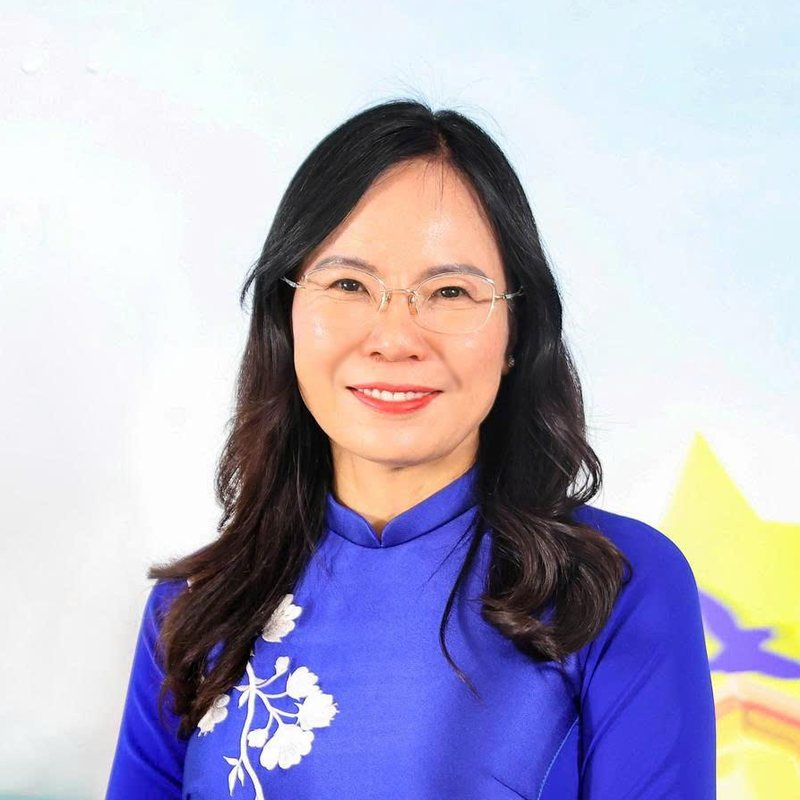
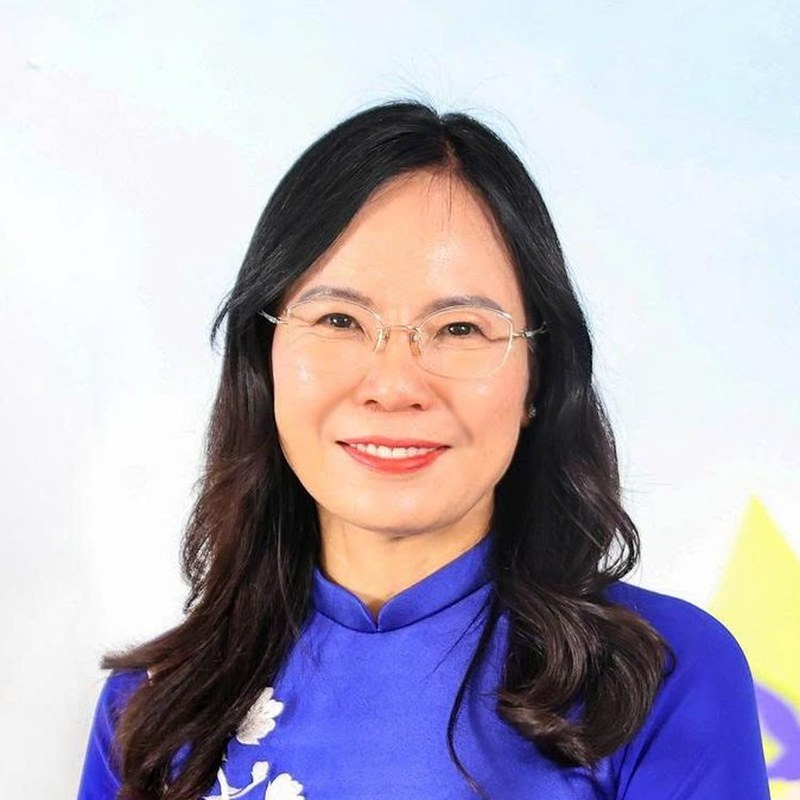
Update speakers

diff --git a/src/data/speakers.ts b/src/data/speakers.ts
@@ -18,6 +18,8 @@ export interface Speaker {
   img: boolean
   org: string
   draft: string[]
+  /** Horizontal focus of the photo in the modal's tall frame, in % (default 50 = centre). */
+  focusX?: number
   vi: SpeakerText
   en: SpeakerText
 }
@@ -30,7 +32,7 @@ export const SHOW_AUTO_TAG = false
 
 export const SP_GROUPS: Record<Locale, string[]> = { vi: ['Phiên toàn thể', 'Phiên chuyên đề', 'Chuyên đề 1 – Đổi mới sáng tạo', 'Chuyên đề 2 – Tài chính xanh'], en: ['Plenary session', 'Thematic session', 'Theme 1 – Innovation', 'Theme 2 – Green finance'] };
 export const SPEAKERS: Speaker[] = [
-  {"id":"ho-sy-hung","g":0,"img":true,"org":"VCCI","draft":[],"vi":{"name":"Ông Hồ Sỹ Hùng","role":"Chủ tịch Liên đoàn Thương mại và Công nghiệp Việt Nam (VCCI)","bio":[]},"en":{"name":"Mr. Ho Sy Hung","role":"Chairman of the Vietnam Chamber of Commerce and Industry (VCCI)","bio":[]}},
+  {"id":"ho-sy-hung","g":0,"img":true,"org":"VCCI","draft":[],"focusX":30,"vi":{"name":"Ông Hồ Sỹ Hùng","role":"Chủ tịch Liên đoàn Thương mại và Công nghiệp Việt Nam (VCCI)","bio":[]},"en":{"name":"Mr. Ho Sy Hung","role":"Chairman of the Vietnam Chamber of Commerce and Industry (VCCI)","bio":[]}},
   {"id":"nguyen-xuan-thang","g":0,"img":true,"org":"Hội đồng Lý luận Trung ương","draft":[],"vi":{"name":"GS. TS. Nguyễn Xuân Thắng","role":"Ủy viên Bộ Chính trị khóa XIII, Chủ tịch Hội đồng Lý luận Trung ương","bio":[]},"en":{"name":"Prof. Dr. Nguyen Xuan Thang","role":"Member of the 13th Politburo, Chairman of the Central Theoretical Council","bio":[]}},
   {"id":"bui-minh-giap","g":0,"img":true,"org":"ADB","draft":[],"vi":{"name":"Ông Bùi Minh Giáp","role":"Chuyên gia Kinh tế trưởng, Ngân hàng Phát triển Châu Á (ADB)","bio":["Ông Bùi Minh Giáp là Chuyên gia Kinh tế trưởng của Ngân hàng Phát triển Châu Á (ADB) tại Việt Nam. Ông phụ trách công tác theo dõi, phân tích và dự báo kinh tế vĩ mô của Việt Nam, đồng thời tham gia tư vấn chính sách trong các lĩnh vực quản lý khu vực công, phát triển khu vực tài chính, hoạch định chiến lược, xác định ưu tiên và xây dựng lộ trình đầu tư.","Với 28 năm kinh nghiệm làm việc tại các định chế tài chính quốc tế, ông có chuyên môn sâu về phát triển kinh tế bền vững và bao trùm, ổn định kinh tế vĩ mô, chính sách công, xúc tiến thương mại, phát triển chuỗi giá trị, an ninh năng lượng và lương thực."]},"en":{"name":"Mr. Bui Minh Giap","role":"Principal Economist, Asian Development Bank - Vietnam","bio":["Mr. Bui Minh Giap is Principal Country Economist at the Asian Development Bank (ADB) in Viet Nam. He is responsible for monitoring, analyzing, and forecasting Viet Nam’s macroeconomic developments, and provides policy advice on public sector management, financial sector development, strategic planning, investment prioritization, and investment sequencing.","He has 28 years of experience with international financial institutions and brings extensive expertise in sustainable and inclusive economic development, macroeconomic stability, public policy, trade promotion, value chain development, energy and food security."]}},
   {"id":"bui-van-khang","g":0,"img":true,"org":"Quảng Ninh","draft":[],"vi":{"name":"Ông Bùi Văn Khắng","role":"Phó Bí thư Thành ủy, Chủ tịch UBND Thành phố Quảng Ninh","bio":[]},"en":{"name":"Mr. Bui Van Khang","role":"Deputy Secretary of Quang Ninh Party Committee, Chairman of Quang Ninh People’s Committee","bio":[]}},
@@ -47,7 +49,7 @@ export const SPEAKERS: Speaker[] = [
   {"id":"nguyen-quang-vinh","g":0,"img":true,"org":"VCCI","draft":[],"vi":{"name":"Ông Nguyễn Quang Vinh","role":"Phó Chủ tịch VCCI, Chủ tịch VBCSD","bio":[]},"en":{"name":"Mr. Nguyen Quang Vinh","role":"VCCI Vice Chairman, VBCSD Chairman","bio":[]}},
   {"id":"ha-thu-thanh","g":1,"img":true,"org":"VIOD","draft":[],"vi":{"name":"Bà Hà Thu Thanh","role":"Chủ tịch Viện Thành viên Hội đồng Quản trị Việt Nam (VIOD), Ủy viên Ban chấp hành VCCI, Thành viên Ban điều hành Hội đồng Doanh nghiệp vì sự phát triển bền vững Việt Nam (VBCSD-VCCI)","bio":[]},"en":{"name":"Ms. Ha Thu Thanh","role":"Vietnam Institute of Director Chairperson, VCCI Executive Committee Member, Executive Board Member of Vietnam Business Council for Sustainable Development (VBCSD-VCCI)","bio":[]}},
   {"id":"tran-ngoc-nam","g":2,"img":true,"org":"Mondelez Kinh Đô","draft":[],"vi":{"name":"Ông Trần Ngọc Nam","role":"Giám đốc Nhà máy, Công ty Mondelez Kinh Đô (Nhà máy Hưng Yên)","bio":["Trần Ngọc Nam hiện là Giám đốc Nhà máy Công ty Mondelez Kinh Đô (Nhà máy tại Hưng Yên-NKD) kể từ tháng 8 năm 2026, Ông chịu trách nhiệm dẫn dắt các hoạt động nhằm đạt hiệu suất xuất sắc, đảm bảo an toàn, chất lượng và tạo ra giá trị cho nhà máy.","Ông Nam có hơn 12 năm kinh nghiệm lãnh đạo trong ngành FMCG, bao gồm vận hành sản xuất, chuyển đổi chuỗi cung ứng và nâng cao năng suất tại khu vực Đông Nam Á và khu vực AMEA. Trước khi đảm nhận vai trò hiện tại, ông từng giữ chức Trưởng bộ phận Chuỗi Cung ứng khu vực Đông Nam Á tại Mondelez International, giám sát 10 nhà máy sản xuất tại 6 quốc gia, nơi ông thiết kế và triển khai hệ thống vận hành tích hợp cùng mô hình quản trị khu vực nhằm đảm bảo việc thực thi nhất quán.","Trước khi gia nhập Mondelez, ông Nam đã có một thập kỷ làm việc tại Procter & Gamble Việt Nam, đảm nhiệm các vị trí lãnh đạo chủ chốt như Giám đốc Kỹ thuật Nhà máy — quản lý ngân sách đầu tư hằng năm hơn 30 triệu USD — và Giám đốc Vận hành, nơi ông lãnh đạo các đội ngũ đa chức năng chuỗi giá trị sản xuất."]},"en":{"name":"Mr. Tran Ngoc Nam","role":"Plant Director, Mondelez Kinh Do (Hung Yen Plant)","bio":["Tran Ngoc Nam is the Plant Director of Mondelez Kinh Do (Hung Yen Plant) in Vietnam since August 2026, responsible for leading operational excellence, safety, quality, and value delivery across the NKD manufacturing site.","Nam brings over 12 years of FMCG leadership experience spanning manufacturing operations, supply chain transformation, and productivity across Southeast Asia and the AMEA region. Prior to his current role, he served as SEA Supply Chain Excellence Lead at Mondelez International, overseeing 10 manufacturing plants across 6 countries, where he designed and deployed an integrated operating system and regional governance model to drive consistent execution.","Before Mondelez, Nam spent a decade at Procter & Gamble in Vietnam, holding key leadership roles including Plant Engineering Director — managing over USD 30M in annual investment — and Operation Director, leading multi-function teams across manufacturing value streams."]}},
-  {"id":"huynh-thi-xuan-lien","g":2,"img":true,"org":"PNJ","draft":[],"vi":{"name":"Bà Huỳnh Thị Xuân Liên","role":"Giám đốc Cấp cao Đối ngoại & Phát triển Bền vững, PNJ","bio":["Huỳnh Thị Xuân Liên là nhà lãnh đạo doanh nghiệp với 27 năm kinh nghiệm trong những lĩnh vực xây dựng thương hiệu, tăng trưởng kinh doanh và phát triển đội ngũ. Hiện bà là Chủ tịch Công ty CAF - CAO Fine Fewelry, Giám đốc Cấp cao Đối ngoại & Phát triển Bền vững tại PNJ, Thành viên Ủy ban ESG của PNJ và từng là Thành viên Hội đồng Quản trị PNJ.","Trước đó, bà có 12 năm đảm nhiệm các vị trí lãnh đạo cấp cao tại PepsiCo và Suntory PepsiCo Việt Nam, trong đó có Tổng Giám Đốc Nhượng quyền Pepsico Việt nam, Phó Tổng Giám đốc Cấp cao phụ trách Marketing, đóng vai trò quan trọng trong việc xây dựng và phát triển nhiều thương hiệu dẫn đầu. Bà cũng từng làm việc tại LG, Dutch Lady và Unilever, với kinh nghiệm sâu rộng trong ngành FMCG.","Bên cạnh hoạt động doanh nghiệp, bà hiện là Phó Chủ tịch Hội Nữ Doanh Nhân TP. HCM HAWEE, Phó Chủ tịch Hiệp hội Marketing Việt Nam (VMA) và Phó Chủ tịch CSMO Việt Nam.","Triết lý lãnh đạo của bà được thể hiện qua hai niềm tin: “Do things the right way” – Làm điều đúng theo cách đúng và “Win through great collaboration” – Thành công thông qua sức mạnh của sự hợp tác. Xuyên suốt hành trình của mình, bà hướng đến việc xây dựng doanh nghiệp, thương hiệu và con người có khả năng tạo ra những tác động tích cực và bền vững."]},"en":{"name":"Ms. Huynh Thi Xuan Lien","role":"Senior Director of External Affairs & Sustainability, PNJ","bio":["Huynh Thi Xuan Lien is a seasoned business leader with 27 years of experience in brand building, business growth, and talent development. She currently serves as Chairwoman of CAF Company – CAO Fine Jewelry, Senior Director of External Affairs & Sustainability at PNJ, and a Member of PNJ’s ESG Committee. She previously served as a Member of PNJ’s Board of Directors.","Prior to PNJ, Lien spent 12 years in senior leadership roles at PepsiCo and Suntory PepsiCo Vietnam, including General Manager of PepsiCo Vietnam Franchise and Senior Vice President of Marketing. During her tenure, she played an instrumental role in building and growing some of the company’s leading brands. Earlier in her career, she held various roles at LG, Dutch Lady, and Unilever, building extensive experience across the FMCG industry.","Beyond her corporate roles, Lien currently serves as Vice President of HAWEE – Ho Chi Minh City Women Entrepreneurs Association, Vice President of the Vietnam Marketing Association (VMA), and Vice President of CSMO Vietnam.","Her leadership philosophy is grounded in two core beliefs: “Do things the right way” and “Win through great collaboration.” Throughout her career, she has remained committed to building businesses, brands, and people that create positive and sustainable impact."]}},
+  {"id":"huynh-thi-xuan-lien","g":2,"img":true,"org":"PNJ","draft":[],"vi":{"name":"Bà Huỳnh Thị Xuân Liên","role":"Giám đốc Cấp cao Đối ngoại & Phát triển Bền vững, PNJ\nChủ tịch HĐTV công ty CAO Fine Jewelry","bio":["Huỳnh Thị Xuân Liên là nhà lãnh đạo doanh nghiệp với 27 năm kinh nghiệm trong những lĩnh vực xây dựng thương hiệu, tăng trưởng kinh doanh và phát triển đội ngũ. Hiện bà là Chủ tịch Công ty CAF - CAO Fine Jewelry, Giám đốc Cấp cao Đối ngoại & Phát triển Bền vững tại PNJ, Thành viên Ủy ban ESG của PNJ và từng là Thành viên Hội đồng Quản trị PNJ.","Trước đó, bà có 12 năm đảm nhiệm các vị trí lãnh đạo cấp cao tại PepsiCo và Suntory PepsiCo Việt Nam, trong đó có Tổng Giám Đốc Nhượng quyền Pepsico Việt nam, Phó Tổng Giám đốc Cấp cao phụ trách Marketing, đóng vai trò quan trọng trong việc xây dựng và phát triển nhiều thương hiệu dẫn đầu. Bà cũng từng làm việc tại LG, Dutch Lady và Unilever, với kinh nghiệm sâu rộng trong ngành FMCG.","Bên cạnh hoạt động doanh nghiệp, bà hiện là Phó Chủ tịch Hội Nữ Doanh Nhân TP. HCM HAWEE, Phó Chủ tịch Hiệp hội Marketing Việt Nam (VMA) và Phó Chủ tịch CSMO Việt Nam.","Triết lý lãnh đạo của bà được thể hiện qua hai niềm tin: “Do things the right way” – Làm điều đúng theo cách đúng và “Win through great collaboration” – Thành công thông qua sức mạnh của sự hợp tác. Xuyên suốt hành trình của mình, bà hướng đến việc xây dựng doanh nghiệp, thương hiệu và con người có khả năng tạo ra những tác động tích cực và bền vững."]},"en":{"name":"Ms. Huynh Thi Xuan Lien","role":"Senior Director of External Affairs & Sustainability, PNJ\nChairwoman of the Members' Council, CAO Fine Jewelry","bio":["Huynh Thi Xuan Lien is a seasoned business leader with 27 years of experience in brand building, business growth, and talent development. She currently serves as Chairwoman of CAF Company – CAO Fine Jewelry, Senior Director of External Affairs & Sustainability at PNJ, and a Member of PNJ’s ESG Committee. She previously served as a Member of PNJ’s Board of Directors.","Prior to PNJ, Lien spent 12 years in senior leadership roles at PepsiCo and Suntory PepsiCo Vietnam, including General Manager of PepsiCo Vietnam Franchise and Senior Vice President of Marketing. During her tenure, she played an instrumental role in building and growing some of the company’s leading brands. Earlier in her career, she held various roles at LG, Dutch Lady, and Unilever, building extensive experience across the FMCG industry.","Beyond her corporate roles, Lien currently serves as Vice President of HAWEE – Ho Chi Minh City Women Entrepreneurs Association, Vice President of the Vietnam Marketing Association (VMA), and Vice President of CSMO Vietnam.","Her leadership philosophy is grounded in two core beliefs: “Do things the right way” and “Win through great collaboration.” Throughout her career, she has remained committed to building businesses, brands, and people that create positive and sustainable impact."]}},
   {"id":"do-tien-thinh","g":2,"img":true,"org":"Trung tâm Đổi mới sáng tạo Quốc gia (NIC)","draft":[],"vi":{"name":"Ông Đỗ Tiến Thịnh","role":"Phó Giám đốc, Trung tâm Đổi mới sáng tạo Quốc gia (NIC), Bộ Tài chính","bio":["Ông Đỗ Tiến Thịnh hiện là Phó Giám đốc Trung tâm Đổi mới sáng tạo Quốc gia (NIC), Bộ Tài chính. Ông gắn bó với vị trí này tại NIC từ năm 2020, khi Trung tâm còn trực thuộc Bộ Kế hoạch và Đầu tư.","Trước đó, ông có hơn 10 năm công tác trong lĩnh vực đăng ký kinh doanh và phát triển doanh nghiệp tại Bộ Kế hoạch và Đầu tư, lần lượt đảm nhiệm các vị trí: Phó Giám đốc Trung tâm Thông tin Doanh nghiệp (Cục Phát triển doanh nghiệp); Trưởng phòng Đăng ký kinh doanh và Giám đốc Trung tâm Hỗ trợ Đăng ký kinh doanh (Cục Quản lý đăng ký kinh doanh); Phó Giám đốc Trung tâm Tin học."]},"en":{"name":"Mr. Do Tien Thinh","role":"Deputy Director, Vietnam National Innovation Center (NIC), Ministry of Finance","bio":["Mr. Do Tien Thinh is Deputy Director of the Vietnam National Innovation Center (NIC) under the Ministry of Finance. He has held this role at NIC since 2020, when the Center was under the Ministry of Planning and Investment.","Previously, he spent more than a decade working in business registration and enterprise development at the Ministry of Planning and Investment, serving successively as Deputy Director of the Enterprise Information Center (Enterprise Development Department); Head of Business Registration and Director of the Business Registration Support Center (Business Registration Management Department); and Deputy Director of the Center for Informatics."]}},
   {"id":"dao-thuy-ha","g":2,"img":true,"org":"Traphaco","draft":[],"vi":{"name":"Bà Đào Thúy Hà","role":"Thành viên HĐQT, Tổng Giám đốc, CTCP Traphaco","bio":["Thạc sỹ Dược học, Thạc sỹ Quản trị kinh doanh.","Traphaco là thương hiệu dược phẩm nổi tiếng tại Việt Nam, đi đầu trong xu hướng phát triển các thuốc sử dụng nguồn gốc tự nhiên. Với lịch sử 54 năm phát triển, Traphaco có năng lực nghiên cứu thuốc chất lượng cao, tăng cường nhận chuyển giao công nghệ dược phẩm từ các nước tiên tiến để tạo ra các sản phẩm dược phẩm Việt Nam chất lượng cao. Đến nay Traphaco sở hữu 4 nhà máy sản xuất đạt tiêu chuẩn GMP, 14 vùng trồng dược liệu đạt tiêu chuẩn GACP- WHO.","Với chiến lược PTBV thông qua ba trụ cột chính: phát triển kinh tế gắn liền với trách nhiệm xã hội và bảo vệ môi trường, Traphaco đã rất thành công với mô hình liên kết 4 nhà gồm: nhà nước (chính quyền) – nhà nông – nhà khoa học – nhà doanh nghiệp, để tận dụng các nguồn lực, tri thức nhiều bên; phát triển các vùng trồng Dược liệu theo chuẩn quốc tế GACP-WHO; góp phần tạo công ăn việc làm, nâng cao thu nhập của người dân trồng cây thuốc, bảo tồn và phát triển dược liệu Việt Nam.","Traphaco đã được chứng nhận là thành viên của Liên minh thương mại sinh học có đạo đức (UEBT), liên tục được vinh danh Top 10 Doanh nghiệp bền vững Việt Nam và giải Doanh nghiệp xuất sắc và bền vững châu Á năm 2022 (Mục sáng kiến vì cộng đồng), Top 50 Công ty niêm yết tốt nhất Việt Nam – Forbes, Top 5 Công ty Đông dược uy tín nhất Việt Nam, Top 10 giải thưởng sao Vàng Đất Việt, Thương hiệu Quốc gia Việt Nam, …","Trong 30 năm gắn bó với Traphaco, chị Đào Thúy Hà đã góp phần định hình những chiến lược kinh doanh mới, thúc đẩy đổi mới sáng tạo và chuyển đổi số trên toàn doanh nghiệp, tạo động lực cho Traphaco duy trì tăng trưởng kép bền vững qua nhiều năm. Chị là nữ doanh nhân tiêu biểu của ngành dược Việt Nam, được VCCI vinh danh \"Bông hồng vàng\" năm 2025.","Chị Đào Thuý Hà là thành viên Ban Thường trực Hội đồng Doanh nghiệp vì sự phát triển bền vững VN (VBCSD), chị đã tham gia: Tọa đàm bàn tròn doanh nghiệp và đối thoại chính sách công tư về đầu tư bền vững của Mạng lưới doanh nghiệp OECD-Đông Nam Á; Kinh doanh bao trùm trong thời đại số; Nữ doanh nhân Việt Nam và Chiến lược Tăng trưởng Xanh,…. do VCCI tổ chức."]},"en":{"name":"Ms. Dao Thuy Ha","role":"Member of the Board of Directors, General Director, Traphaco JSC","bio":["Master of Pharmacy, Master of Business Administration.","Traphaco is a famous pharmaceutical brand in Vietnam, leading the trend of developing drugs using natural sources. With a history of 54 years of development, Traphaco has the capacity to research high-quality drugs, increasing the transfer of pharmaceutical technology from advanced countries to create high-quality Vietnamese pharmaceutical products. To date, Traphaco owns 4 GMP-certified factories, 14 medicinal herb growing areas meeting GACP-WHO standards.","With a sustainable development strategy through three main pillars: economic development associated with social responsibility and environmental protection, Traphaco has been very successful with a 4-party linkage model including: the state (government) - farmers - scientists - businesses, to take advantage of resources and knowledge from many parties; Developing medicinal plant growing areas that meet GACP-WHO standards; contributing to creating jobs, increasing income for people growing medicinal plants, preserving and developing Vietnamese medicinal plants.","Traphaco is a member of the Union for Ethical BioTrade (UEBT) and has repeatedly been named among Vietnam’s Top 10 Sustainable Businesses. Its distinctions also include the 2022 Asia Corporate Excellence and Sustainability Award (ACES) for Community Initiatives, Forbes Vietnam’s Top 50 Listed Companies, Vietnam’s Top 5 Most Reputable Herbal Pharmaceutical Companies, the Top 10 Golden Star Awards, and recognition under the Vietnam National Brand Program (Vietnam Value).","Over her 30 years with Traphaco, Ms. Dao Thuy Ha has helped shape new business strategies and advance innovation and company-wide digital transformation, contributing to the company’s sustained growth under its dual-growth strategy. A distinguished businesswoman in Vietnam’s pharmaceutical industry, she received VCCI’s Golden Rose Award in 2025.","Ms. Dao Thuy Ha is a member of the Standing Committee of the Vietnam Business Council for Sustainable Development (VBCSD). She has participated in: Business Roundtable and Public-Private Policy Dialogue on Sustainable Investment of the OECD-Southeast Asia Business Network; Inclusive Business in the Digital Age; Vietnamese Women Entrepreneurs and Green Growth Strategy, etc. organized by VCCI."]}},
   {"id":"pham-ngoc-khang","g":2,"img":true,"org":"Home Credit Việt Nam","draft":[],"vi":{"name":"Ông Pham Ngoc Khang","role":"Giám đốc Chiến lược Kinh doanh kiêm Trưởng Ban chỉ đạo ESG, Home Credit Việt Nam","bio":["Anh Khang có hơn 20 năm kinh nghiệm trong lĩnh vực tài chính và quản trị tại các tập đoàn đa quốc gia hàng đầu như VALEO, ALSTOM và General Electric. Hiện tại anh đang nắm giữ vị trí Giám đốc Chiến lược Kinh doanh và Trưởng Ban chỉ đạo ESG tại Home Credit Việt Nam."]},"en":{"name":"Mr. Pham Ngoc Khang","role":"Chief Strategy Officer & Chairperson of ESG Steering Group, Home Credit Vietnam","bio":["Mr. Khang has over 20 years of experience in finance and management at leading multinational corporations such as VALEO, ALSTOM, and General Electric. He currently holds the positions of Chief Strategy Officer & Chairperson of ESG Steering Group at Home Credit Vietnam."]}},

diff --git a/src/components/Speakers/SpeakerModal.tsx b/src/components/Speakers/SpeakerModal.tsx
@@ -123,7 +123,11 @@ export default function SpeakerModal({ order, current, onNavigate, onClose }: Pr
         <div className={styles.media}>
           <div ref={fadeRef} className={styles.fade}>
             {sp.img ? (
-              <img src={speakerImage(sp)} alt={txt.name} />
+              <img
+                src={speakerImage(sp)}
+                alt={txt.name}
+                style={sp.focusX === undefined ? undefined : { objectPosition: `${sp.focusX}% 25%` }}
+              />
             ) : (
               <div className={styles.placeholder}>
                 <PersonPlaceholder size={84} />

diff --git a/src/components/Speakers/Speakers.module.css b/src/components/Speakers/Speakers.module.css
@@ -183,6 +183,7 @@
 .role {
   font: 400 14px/1.45 var(--font-body);
   color: var(--on-dark-muted);
+  white-space: pre-line; /* a role may hold several titles, one per line */
   display: -webkit-box;
   -webkit-line-clamp: 3;
   -webkit-box-orient: vertical;

diff --git a/src/components/Speakers/SpeakerModal.module.css b/src/components/Speakers/SpeakerModal.module.css
@@ -217,6 +217,7 @@
   font: 600 15px/1.55 var(--font-body);
   color: var(--royal);
   text-wrap: pretty;
+  white-space: pre-line;
 }
 
 .role em {
